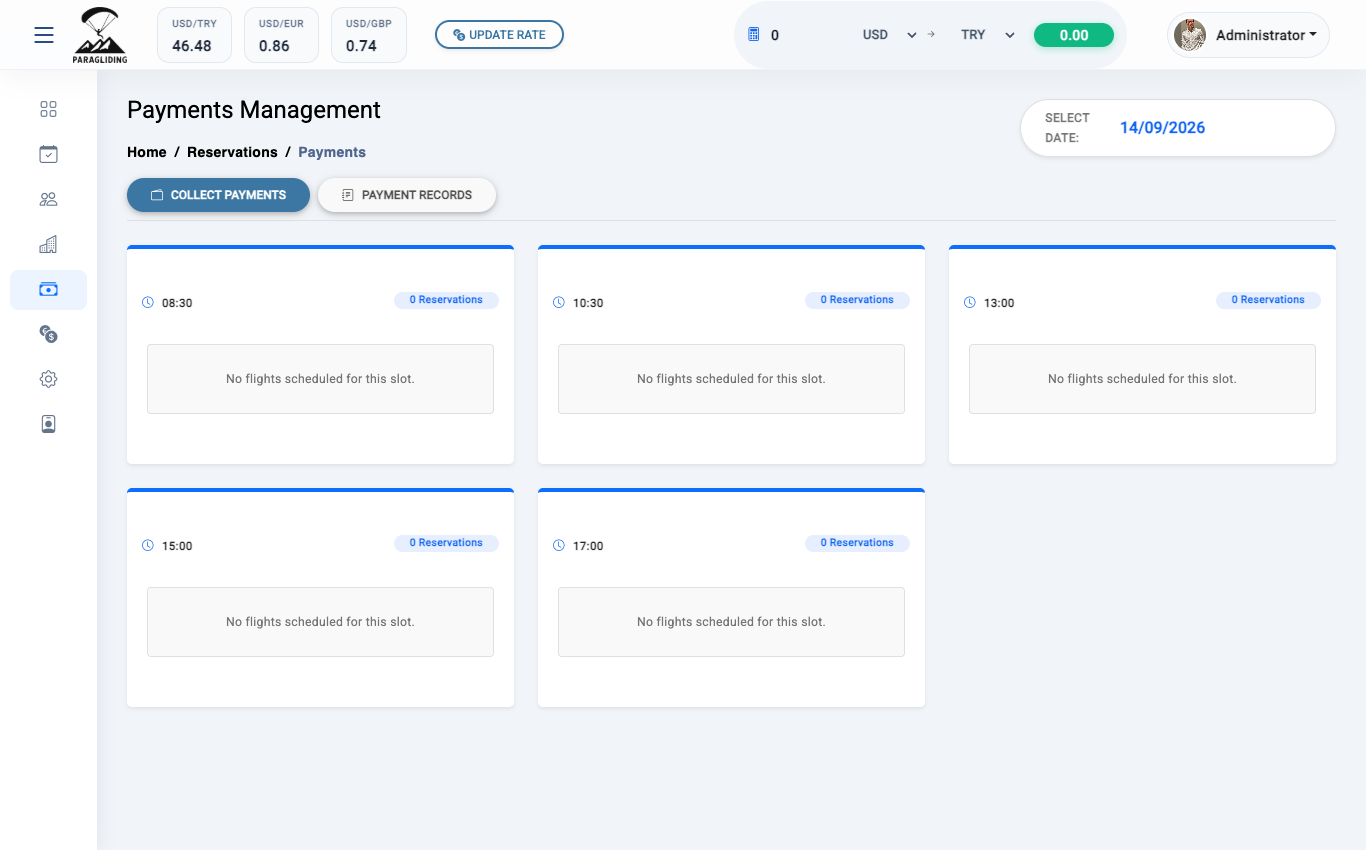
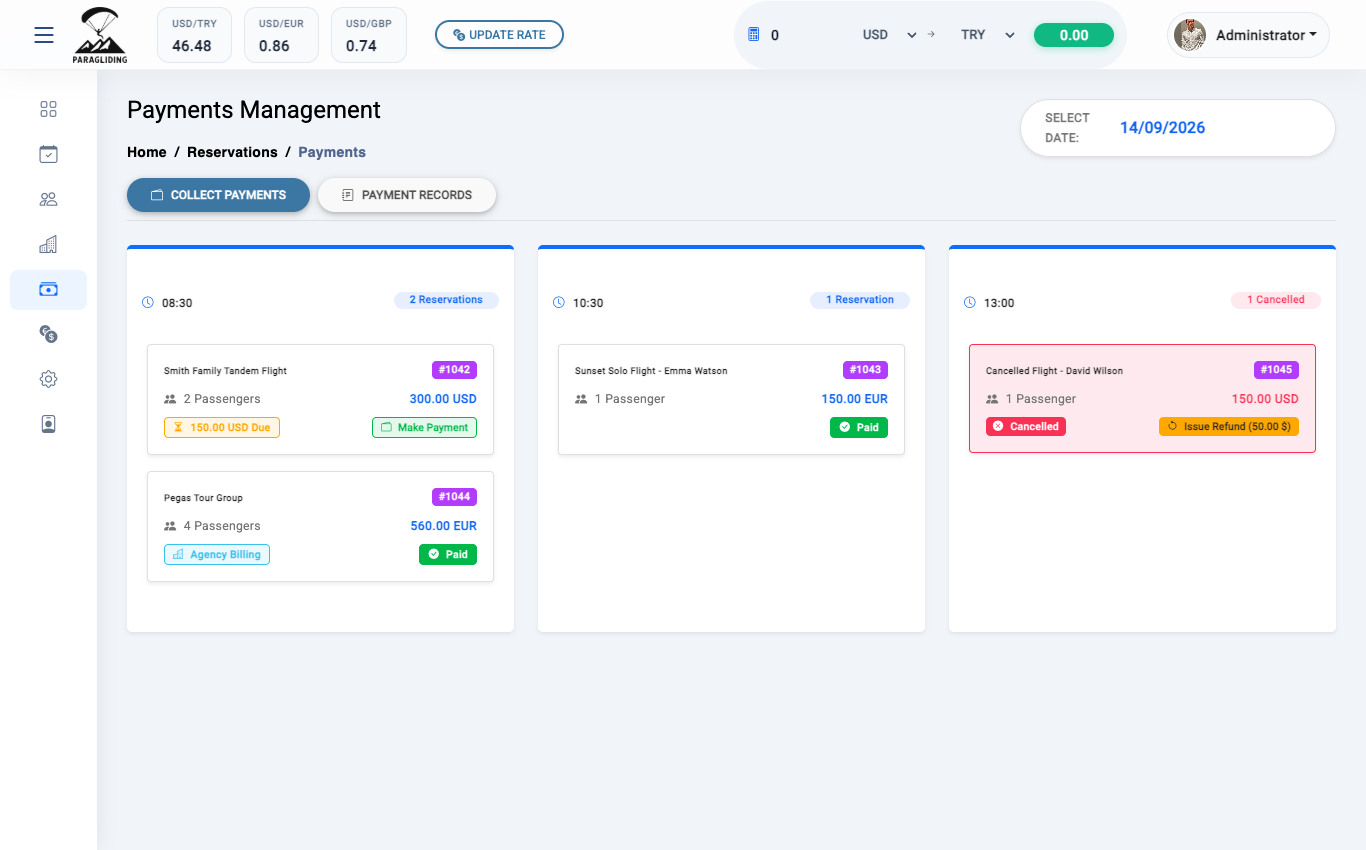
Expand Payment Module in User Manual with in-depth field tables, conversion formulas, modal breakdown, and thermal slip guide

diff --git a/SYSTEM_USER_MANUAL.html b/SYSTEM_USER_MANUAL.html
@@ -1311,16 +1311,395 @@
     <section class="doc-chapter" id="payments">
       <div class="chapter-header">
         <div>
-          <h2 class="chapter-title"><i class="bi bi-credit-card-fill"></i> 9. Multi-Currency Payment Ledger</h2>
-          <p class="text-muted small mt-1">Process customer balances, handle multi-currency payments, and audit refunds.</p>
+          <h2 class="chapter-title"><i class="bi bi-credit-card-fill"></i> 9. Multi-Currency Payment Ledger & Cashier Hub</h2>
+          <p class="text-muted small mt-1">Process customer balances, handle multi-currency payments, execute cross-currency conversions, print thermal POS vouchers, and audit refunds.</p>
         </div>
         <span class="route-badge">/payments</span>
       </div>
 
+      <!-- Introduction to the Financial Engine -->
+      <div class="callout-box callout-tip mb-4">
+        <div class="callout-title"><i class="bi bi-info-circle-fill"></i> Operational Mission of the Payment Module</div>
+        <p class="mb-0">Operating commercial tandem paragliding in international tourist hotspots like Ölüdeniz / Babadağ requires extreme financial agility. Passengers arrive with varied foreign currencies (<strong>EUR, USD, GBP, Turkish Lira</strong>) and diverse tender types (<strong>Cash, POS Credit Cards, Bank Transfers</strong>). The Payment Module provides front-desk cashiers and flight dispatchers with a real-time settlement hub to collect pending flight balances, apply automatic or custom currency conversion rates, generate 80mm thermal POS customer vouchers, and safely process weather cancellation refunds.</p>
+      </div>
+
+      <!-- Section 9.1: Flight Time Payment Dispatch Console -->
+      <h3 class="subsection-title"><i class="bi bi-wallet2"></i> 9.1 Daily Flight Time Payment Dispatch Console (Collect Payments Tab)</h3>
+      <p>The <strong>Collect Payments</strong> view organizes all scheduled flights for any selected date into sequential flight time slot cards (e.g., <code>08:30</code>, <code>10:30</code>, <code>13:00</code>, <code>15:00</code>, <code>17:00</code>). Cashiers can immediately see which bookings are paid, which have pending balances, and which cancelled flights require deposit refunds.</p>
+
       <div class="screenshot-card">
-        <img src="manual_assets/11_payments_page.png" alt="Payments Page Screenshot">
+        <img src="manual_assets/11_payments_page.png" alt="Payments Collect View Screenshot">
         <div class="screenshot-caption">
-          <i class="bi bi-camera"></i> <strong>Figure 9.1:</strong> Financial transaction ledger and payment processing console.
+          <i class="bi bi-camera"></i> <strong>Figure 9.1:</strong> Daily payment collection console grouped by flight time slots with real-time financial status badges.
+        </div>
+      </div>
+
+      <div class="field-table-container">
+        <table class="field-table">
+          <thead>
+            <tr>
+              <th>UI Element / Badge</th>
+              <th>Display Type</th>
+              <th>Operational State</th>
+              <th>Description & Action Triggered</th>
+            </tr>
+          </thead>
+          <tbody>
+            <tr>
+              <td class="field-name">Date Selector (Flatpickr)</td>
+              <td><span class="field-type">Date Picker</span></td>
+              <td><span class="req-badge">Navigation</span></td>
+              <td>Allows the cashier to switch between operating dates. Defaults to the current operational day. Instantly reloads all slot cards for the selected date.</td>
+            </tr>
+            <tr>
+              <td class="field-name">Slot Header & Reservation Counter</td>
+              <td><span class="field-type">Header Badge</span></td>
+              <td><span class="opt-badge">Information</span></td>
+              <td>Displays takeoff time (e.g. <code>08:30</code>) and total booking count scheduled in this flight window (e.g., <code>2 Reservations</code>).</td>
+            </tr>
+            <tr>
+              <td class="field-name">Reservation Card</td>
+              <td><span class="field-type">Clickable Card</span></td>
+              <td><span class="opt-badge">Interactive</span></td>
+              <td>Displays Booking Title, Unique ID (<code>#1042</code>), Passenger Count (<code>2 Passengers</code>), and Total Price in preferred currency (e.g. <code>300.00 USD</code>). Clicking anywhere on the card opens the Payment Gateway Modal.</td>
+            </tr>
+            <tr>
+              <td class="field-name">Make Payment Button</td>
+              <td><span class="field-type">Action Button</span></td>
+              <td><span class="example-code" style="color: #198754; background: #e8f5e9;">Balance Due</span></td>
+              <td>Appears when <code>Total Due &gt; Amount Paid</code>. Clicking opens the Payment Modal pre-configured with the exact remaining balance due.</td>
+            </tr>
+            <tr>
+              <td class="field-name">Paid Badge</td>
+              <td><span class="field-type">Status Badge</span></td>
+              <td><span class="example-code" style="color: #ffffff; background: #198754;">Settled</span></td>
+              <td>Displays a solid green checkmark badge when <code>Deposit + Total Payments &gt;= Total Amount</code>. Indicates passengers are cleared to board the mountain shuttle.</td>
+            </tr>
+            <tr>
+              <td class="field-name">Issue Refund Button</td>
+              <td><span class="field-type">Action Button</span></td>
+              <td><span class="example-code" style="color: #000000; background: #ffc107;">Cancelled with Funds</span></td>
+              <td>Appears exclusively on cancelled flights (<code>Status = 2</code>) where deposits or payments were collected (<code>amountPaid &gt; 0</code>). Opens the refund authorization modal.</td>
+            </tr>
+            <tr>
+              <td class="field-name">Agency Billing Badge</td>
+              <td><span class="field-type">Status Badge</span></td>
+              <td><span class="example-code" style="color: #0d6efd; background: #e7f1ff;">B2B Account</span></td>
+              <td>Identifies reservations booked through partner travel agencies (e.g. Pegas, Coral) where settlement occurs via monthly B2B agency reconciliation.</td>
+            </tr>
+          </tbody>
+        </table>
+      </div>
+
+      <!-- Section 9.2: Payment & Multi-Currency Processing Modal -->
+      <h3 class="subsection-title"><i class="bi bi-cash-coin"></i> 9.2 Payment & Multi-Currency Gateway Modal</h3>
+      <p>When collecting money at the front desk, the cashier opens the <strong>Payment Modal</strong>. This window features a 4-metric balance summary card, support for 4 major currencies, automatic cross-currency exchange rate conversions, and a single-click <em>Pay All</em> feature.</p>
+
+      <div class="screenshot-card">
+        <img src="manual_assets/11b_payment_modal.png" alt="Payment Modal Screenshot">
+        <div class="screenshot-caption">
+          <i class="bi bi-camera"></i> <strong>Figure 9.2:</strong> Multi-currency payment modal with real-time currency conversion (e.g., Paying in EUR for a USD booking balance).
+        </div>
+      </div>
+
+      <!-- Balance Summary Cards Breakdown -->
+      <div class="row g-3 mb-4 text-center">
+        <div class="col-6 col-md-3">
+          <div class="p-3 bg-white rounded border shadow-sm">
+            <div class="text-muted small fw-bold text-uppercase">1. Total Due</div>
+            <div class="fw-bold text-dark fs-5 mt-1">300.00 USD</div>
+            <div class="text-muted small">Full flight contract price</div>
+          </div>
+        </div>
+        <div class="col-6 col-md-3">
+          <div class="p-3 bg-white rounded border shadow-sm">
+            <div class="text-muted small fw-bold text-uppercase">2. Deposit</div>
+            <div class="fw-bold text-info fs-5 mt-1">50.00 USD</div>
+            <div class="text-muted small">Advance paid at booking</div>
+          </div>
+        </div>
+        <div class="col-6 col-md-3">
+          <div class="p-3 bg-white rounded border shadow-sm">
+            <div class="text-muted small fw-bold text-uppercase">3. Total Paid</div>
+            <div class="fw-bold text-success fs-5 mt-1">150.00 USD</div>
+            <div class="text-muted small">Deposit + Recorded Payments</div>
+          </div>
+        </div>
+        <div class="col-6 col-md-3">
+          <div class="p-3 bg-white rounded border shadow-sm">
+            <div class="text-muted small fw-bold text-uppercase">4. Rest (Due)</div>
+            <div class="fw-bold text-danger fs-5 mt-1">150.00 USD</div>
+            <div class="text-muted small">Remaining balance to collect</div>
+          </div>
+        </div>
+      </div>
+
+      <!-- Field-by-Field Reference Table for Payment Modal -->
+      <h4 class="fw-bold text-dark mt-4 mb-3"><i class="bi bi-input-cursor-text text-primary"></i> Payment Modal Field Reference</h4>
+      <div class="field-table-container">
+        <table class="field-table">
+          <thead>
+            <tr>
+              <th>Field Name</th>
+              <th>Input Type</th>
+              <th>Requirement</th>
+              <th>Description & Operational Action</th>
+              <th>Example Value</th>
+            </tr>
+          </thead>
+          <tbody>
+            <tr>
+              <td class="field-name">Amount in Payment Currency</td>
+              <td><span class="field-type">Number (Decimal)</span></td>
+              <td><span class="req-badge">Required</span></td>
+              <td>The exact physical money handed over by the customer in the chosen payment currency. Pre-filled with the remaining balance.</td>
+              <td><span class="example-code">129.00</span></td>
+            </tr>
+            <tr>
+              <td class="field-name">Pay All / Refund All Shortcut</td>
+              <td><span class="field-type">Action Link</span></td>
+              <td><span class="opt-badge">Quick Action</span></td>
+              <td>Clicking this blue link automatically calculates and fills the exact converted amount required to fully clear the remaining balance (or full refund).</td>
+              <td><span class="example-code">Pay All (129.00 €)</span></td>
+            </tr>
+            <tr>
+              <td class="field-name">Pay in Currency</td>
+              <td><span class="field-type">Select Dropdown</span></td>
+              <td><span class="req-badge">Required</span></td>
+              <td>Currency tender physically offered by customer (<code>USD ($)</code>, <code>EUR (€)</code>, <code>TRY (₺)</code>, <code>GBP (£)</code>). Switching currencies dynamically triggers the Exchange Rate Engine.</td>
+              <td><span class="example-code">EUR (€)</span></td>
+            </tr>
+            <tr>
+              <td class="field-name">Exchange Rate Override</td>
+              <td><span class="field-type">Number (Step 0.0001)</span></td>
+              <td><span class="opt-badge">Dynamic</span></td>
+              <td>Visible only when Payment Currency differs from Booking Currency. Auto-populates from system exchange rates. Cashiers can manually override this rate if a custom exchange rate was negotiated.</td>
+              <td><span class="example-code">0.8600</span></td>
+            </tr>
+            <tr>
+              <td class="field-name">Equivalent in Booking Currency</td>
+              <td><span class="field-type">Number (Auto-Calculated)</span></td>
+              <td><span class="opt-badge">Read / Edit</span></td>
+              <td>Shows exactly how many Dollars / Euros of the reservation balance will be cleared: <code>convertedAmount = amountInPayCurrency / exchangeRate</code>.</td>
+              <td><span class="example-code">150.00 USD</span></td>
+            </tr>
+            <tr>
+              <td class="field-name">Payment Method</td>
+              <td><span class="field-type">Select Dropdown</span></td>
+              <td><span class="req-badge">Required</span></td>
+              <td>Tender channel used: <code>💵 Cash</code>, <code>💳 Card / POS Terminal</code>, or <code>🏦 Bank Transfer / IBAN</code>.</td>
+              <td><span class="example-code">💳 Card / POS Terminal</span></td>
+            </tr>
+            <tr>
+              <td class="field-name">Transaction Date & Time</td>
+              <td><span class="field-type">Datetime-Local</span></td>
+              <td><span class="req-badge">Required</span></td>
+              <td>Timestamp of payment collection. Defaults to current system time. Can be adjusted when logging historical or bank transfers.</td>
+              <td><span class="example-code">14/09/2026, 14:30</span></td>
+            </tr>
+            <tr>
+              <td class="field-name">Notes & Terminal Slip Reference</td>
+              <td><span class="field-type">Textarea</span></td>
+              <td><span class="opt-badge">Optional</span></td>
+              <td>Critical audit remarks such as POS Auth code, credit card last 4 digits, IBAN sender name, or cash drawer reference.</td>
+              <td><span class="example-code">POS Auth #89421 - Visa Ending in 4112</span></td>
+            </tr>
+          </tbody>
+        </table>
+      </div>
+
+      <!-- Step-by-Step SOP for Collecting Payments -->
+      <h4 class="fw-bold text-dark mt-4 mb-3"><i class="bi bi-list-ol text-primary"></i> Standard Operating Procedure: Collecting Passenger Balance</h4>
+      <div class="step-guide">
+        <div class="step-item">
+          <div class="step-num">1</div>
+          <div class="step-content">
+            <div class="step-title">Locate Reservation Card in Takeoff Slot</div>
+            <p class="mb-0">On the <strong>Collect Payments</strong> tab, locate the flight slot (e.g. 08:30) and click <strong>Make Payment</strong> on the customer's card.</p>
+          </div>
+        </div>
+        <div class="step-item">
+          <div class="step-num">2</div>
+          <div class="step-content">
+            <div class="step-title">Select Customer's Currency Tender</div>
+            <p class="mb-0">Ask the customer which currency they wish to pay in. If paying in a foreign currency (e.g., Paying Euros for a USD price), select <strong>EUR</strong> from the dropdown.</p>
+          </div>
+        </div>
+        <div class="step-item">
+          <div class="step-num">3</div>
+          <div class="step-content">
+            <div class="step-title">Verify Dynamic Exchange Rate & Total</div>
+            <p class="mb-0">Verify the conversion rate (e.g. <code>1 USD = 0.8600 EUR</code>). Click <strong>Pay All</strong> or input the nominal amount. The system will confirm: <em>"129.00 EUR pays off 150.00 USD of reservation balance."</em></p>
+          </div>
+        </div>
+        <div class="step-item">
+          <div class="step-num">4</div>
+          <div class="step-content">
+            <div class="step-title">Process Transaction & Log Slip Code</div>
+            <p class="mb-0">Swipe POS card or count cash. Enter the POS terminal auth slip number into <strong>Notes</strong>.</p>
+          </div>
+        </div>
+        <div class="step-item">
+          <div class="step-num">5</div>
+          <div class="step-content">
+            <div class="step-title">Confirm Payment & Print 80mm Voucher</div>
+            <p class="mb-0">Click <strong>Confirm Payment</strong>. The card status instantly flips to solid green <span class="badge bg-success">Paid</span>. Go to <em>Payment Records</em> and click the <strong>Printer</strong> icon to print the 80mm thermal receipt.</p>
+          </div>
+        </div>
+      </div>
+
+      <!-- Section 9.3: Cancellation & Refund Processing Protocol -->
+      <h3 class="subsection-title"><i class="bi bi-arrow-counterclockwise"></i> 9.3 Flight Cancellation & Refund Protocol</h3>
+      <div class="callout-box callout-warning mb-4">
+        <div class="callout-title"><i class="bi bi-exclamation-triangle-fill"></i> Strict Security Rules for Refund Execution</div>
+        <ul class="mb-0 ps-3">
+          <li><strong>Status Prerequisite:</strong> The <em>Issue Refund</em> button appears <u>only</u> when the reservation status has been formally set to <strong>Cancelled (Status = 2)</strong> and the customer has collected payments (<code>amountPaid &gt; 0</code>).</li>
+          <li><strong>Amount Cap Protection:</strong> The system strictly caps the refund ceiling at the exact <code>amountPaid</code>. Frontline staff cannot issue a refund larger than the collected funds.</li>
+          <li><strong>Negative Ledger Entry:</strong> Refunds are automatically recorded in the ledger as negative amounts (e.g. <code>-50.00 USD</code>) with an automatic <code>[Refund]</code> audit prefix in the notes.</li>
+        </ul>
+      </div>
+
+      <!-- Section 9.4: Multi-Currency Accounting Ledger -->
+      <h3 class="subsection-title"><i class="bi bi-journal-text"></i> 9.4 Multi-Currency Accounting Ledger (Payment Records Tab)</h3>
+      <p>The <strong>Payment Records</strong> tab serves as the official financial ledger and daily cash audit dashboard. It combines all recorded transactions, deposits, and due balances with multi-currency metric counters and export/print tools.</p>
+
+      <div class="screenshot-card">
+        <img src="manual_assets/11c_payment_records.png" alt="Payment Records Ledger Screenshot">
+        <div class="screenshot-caption">
+          <i class="bi bi-camera"></i> <strong>Figure 9.3:</strong> Financial audit ledger with multi-currency summary counters, filter engine, and thermal slip printing actions.
+        </div>
+      </div>
+
+      <!-- Multi-Currency KPI Cards -->
+      <h4 class="fw-bold text-dark mt-4 mb-3"><i class="bi bi-speedometer2 text-primary"></i> Real-Time Multi-Currency Cash Balance Cards</h4>
+      <div class="row g-3 mb-4">
+        <div class="col-md-3">
+          <div class="card shadow-sm border-0 border-start border-primary border-4 p-3 bg-white h-100">
+            <div class="text-muted small fw-bold text-uppercase">TRY Collected (₺)</div>
+            <div class="h3 fw-bold text-primary mt-2 mb-0">Turkish Lira</div>
+            <div class="text-muted small mt-1">Aggregated net cash, card, and bank transfers received in TRY.</div>
+          </div>
+        </div>
+        <div class="col-md-3">
+          <div class="card shadow-sm border-0 border-start border-success border-4 p-3 bg-white h-100">
+            <div class="text-muted small fw-bold text-uppercase">USD Collected ($)</div>
+            <div class="h3 fw-bold text-success mt-2 mb-0">US Dollars</div>
+            <div class="text-muted small mt-1">Total revenue collected from international tourists paying in USD.</div>
+          </div>
+        </div>
+        <div class="col-md-3">
+          <div class="card shadow-sm border-0 border-start border-warning border-4 p-3 bg-white h-100">
+            <div class="text-muted small fw-bold text-uppercase">EUR Collected (€)</div>
+            <div class="h3 fw-bold text-warning mt-2 mb-0">Euros</div>
+            <div class="text-muted small mt-1">Total revenue collected in EUR across European travel agencies and direct sales.</div>
+          </div>
+        </div>
+        <div class="col-md-3">
+          <div class="card shadow-sm border-0 border-start border-info border-4 p-3 bg-white h-100">
+            <div class="text-muted small fw-bold text-uppercase">GBP Collected (£)</div>
+            <div class="h3 fw-bold text-info mt-2 mb-0">British Pounds</div>
+            <div class="text-muted small mt-1">Total revenue collected in GBP from UK package holidaymakers.</div>
+          </div>
+        </div>
+      </div>
+
+      <!-- Ledger Filter Engine -->
+      <h4 class="fw-bold text-dark mt-4 mb-3"><i class="bi bi-funnel-fill text-primary"></i> Ledger Filter & Auditing Tools</h4>
+      <div class="field-table-container">
+        <table class="field-table">
+          <thead>
+            <tr>
+              <th>Filter Control</th>
+              <th>Type</th>
+              <th>Options / Format</th>
+              <th>Auditing Purpose</th>
+            </tr>
+          </thead>
+          <tbody>
+            <tr>
+              <td class="field-name">Start Date & End Date</td>
+              <td><span class="field-type">Flatpickr Range</span></td>
+              <td><code>DD/MM/YYYY</code></td>
+              <td>Filters ledger transactions within a specified historical date range for daily cash-box closing or monthly accountant audits.</td>
+            </tr>
+            <tr>
+              <td class="field-name">Payment Method Filter</td>
+              <td><span class="field-type">Dropdown</span></td>
+              <td><code>All Methods</code>, <code>Cash</code>, <code>Card</code>, <code>Transfer/IBAN</code></td>
+              <td>Isolates credit card transactions for POS terminal reconciliation, or cash payments for physical register counting.</td>
+            </tr>
+            <tr>
+              <td class="field-name">Currency Filter</td>
+              <td><span class="field-type">Dropdown</span></td>
+              <td><code>All Currencies</code>, <code>TRY (₺)</code>, <code>USD ($)</code>, <code>EUR (€)</code>, <code>GBP (£)</code></td>
+              <td>Separates cash-drawer currency envelopes at the end of the shift.</td>
+            </tr>
+            <tr>
+              <td class="field-name">Full-Text Search Bar</td>
+              <td><span class="field-type">Live Search</span></td>
+              <td>Reservation ID, Title, Passenger Name</td>
+              <td>Instantly locates any transaction by entering the ticket number (e.g. <code>#1042</code>) or tourist name (e.g. <code>Smith</code>).</td>
+            </tr>
+            <tr>
+              <td class="field-name">Reset Button</td>
+              <td><span class="field-type">Action Button</span></td>
+              <td>Purple Reset Icon</td>
+              <td>Clears all active filters and restores full transaction visibility.</td>
+            </tr>
+          </tbody>
+        </table>
+      </div>
+
+      <!-- Section 9.5: 80mm Thermal Bill Voucher Format -->
+      <h3 class="subsection-title"><i class="bi bi-printer-fill"></i> 9.5 80mm Thermal Bill & POS Slip Output</h3>
+      <p>Clicking the <strong>Printer Icon (<i class="bi bi-printer text-primary"></i>)</strong> on any transaction row generates an industry-standard 80mm thermal receipt formatted specifically for POS slip printers (e.g., Epson, Bixolon, Star Micronics). The window triggers <code>window.print()</code> automatically.</p>
+
+      <div class="row g-4 mb-4">
+        <div class="col-md-6">
+          <div class="p-4 bg-light rounded border font-monospace" style="font-size: 0.85rem; line-height: 1.6; border: 2px dashed #6c757d !important; max-width: 360px; margin: auto;">
+            <div class="text-center fw-bold fs-6">GRAVITY PARAGLIDING</div>
+            <div class="text-center small text-muted">FETHIYE / OLUDENIZ</div>
+            <hr class="my-2">
+            <div class="text-center fw-bold">BOOKING VOUCHER</div>
+            <div class="text-center">#1042</div>
+            <hr class="my-2">
+            <div class="d-flex justify-content-between"><span>DATE:</span><span>14/09/2026</span></div>
+            <div class="d-flex justify-content-between"><span>TIME:</span><span>08:30 Slot</span></div>
+            <div class="d-flex justify-content-between"><span>PICKUP:</span><span>Liberty Hotels Lykia</span></div>
+            <div class="d-flex justify-content-between"><span>SOURCE:</span><span>Direct Booking</span></div>
+            <hr class="my-2">
+            <div class="fw-bold">PASSENGERS:</div>
+            <div class="ps-2">
+              P1: John Smith (82kg)<br>
+              <small class="text-muted">Pilot: Ali Yilmaz</small><br>
+              P2: Sarah Smith (64kg)<br>
+              <small class="text-muted">Pilot: Mehmet Kaya</small>
+            </div>
+            <hr class="my-2">
+            <div class="d-flex justify-content-between"><span>METHOD:</span><span class="fw-bold">CARD (POS)</span></div>
+            <div class="d-flex justify-content-between fw-bold"><span>TOTAL:</span><span>300.00 USD</span></div>
+            <div class="d-flex justify-content-between"><span>PAID:</span><span>300.00 USD</span></div>
+            <div class="d-flex justify-content-between fw-bold fs-6"><span>REST:</span><span>0.00 USD</span></div>
+            <div class="d-flex justify-content-between small text-muted"><span>CASHIER:</span><span>admin</span></div>
+            <hr class="my-2">
+            <div class="text-center fw-bold fs-6 mt-2">*** PAID IN FULL ***</div>
+            <hr class="my-2">
+            <div class="text-center small text-muted" style="font-size: 0.75rem;">
+              Please be ready 15 mins early at pickup point.<br>
+              Emergency Contact: +90 252 616 7788<br>
+              Have a wonderful flight over Blue Lagoon!
+            </div>
+          </div>
+        </div>
+        <div class="col-md-6 d-flex flex-column justify-content-center">
+          <h5 class="fw-bold text-dark"><i class="bi bi-receipt me-2 text-primary"></i> Thermal Slip Key Audit Elements</h5>
+          <ul class="list-unstyled mt-2">
+            <li class="mb-2"><i class="bi bi-check-circle-fill text-success me-2"></i> <strong>Reservation Identifier:</strong> Large bold voucher number (<code>#1042</code>) for quick pilot check-in.</li>
+            <li class="mb-2"><i class="bi bi-check-circle-fill text-success me-2"></i> <strong>Takeoff & Hotel Pickup:</strong> Exact flight slot (<code>08:30</code>) and passenger pickup hotel.</li>
+            <li class="mb-2"><i class="bi bi-check-circle-fill text-success me-2"></i> <strong>Passenger-to-Pilot Roster:</strong> Lists every passenger alongside their assigned commercial pilot.</li>
+            <li class="mb-2"><i class="bi bi-check-circle-fill text-success me-2"></i> <strong>Financial Watermark:</strong> Displays <code>*** PAID ***</code> or <code>*** BALANCE DUE ***</code> to prevent unauthorized takeoffs without full payment.</li>
+            <li class="mb-2"><i class="bi bi-check-circle-fill text-success me-2"></i> <strong>Dispatcher Accountability:</strong> Prints the cashier username who processed the payment for shift audit compliance.</li>
+          </ul>
         </div>
       </div>
     </section>
